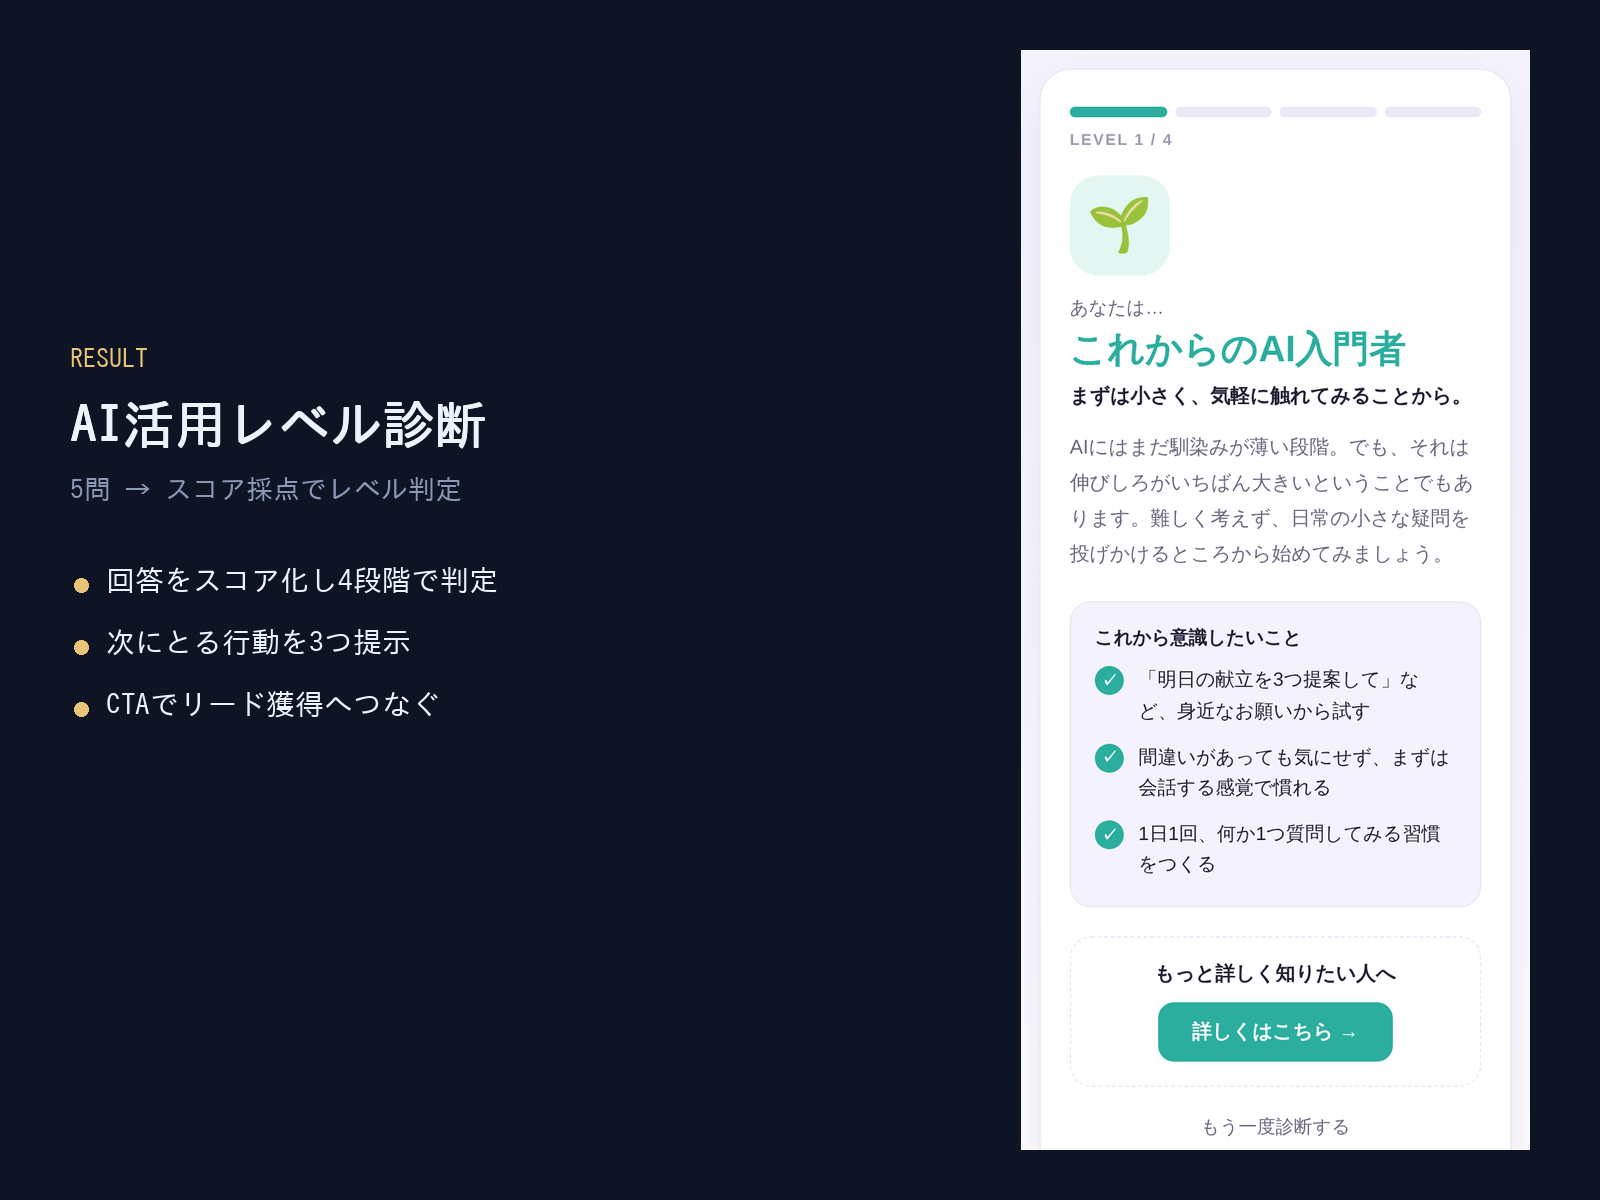
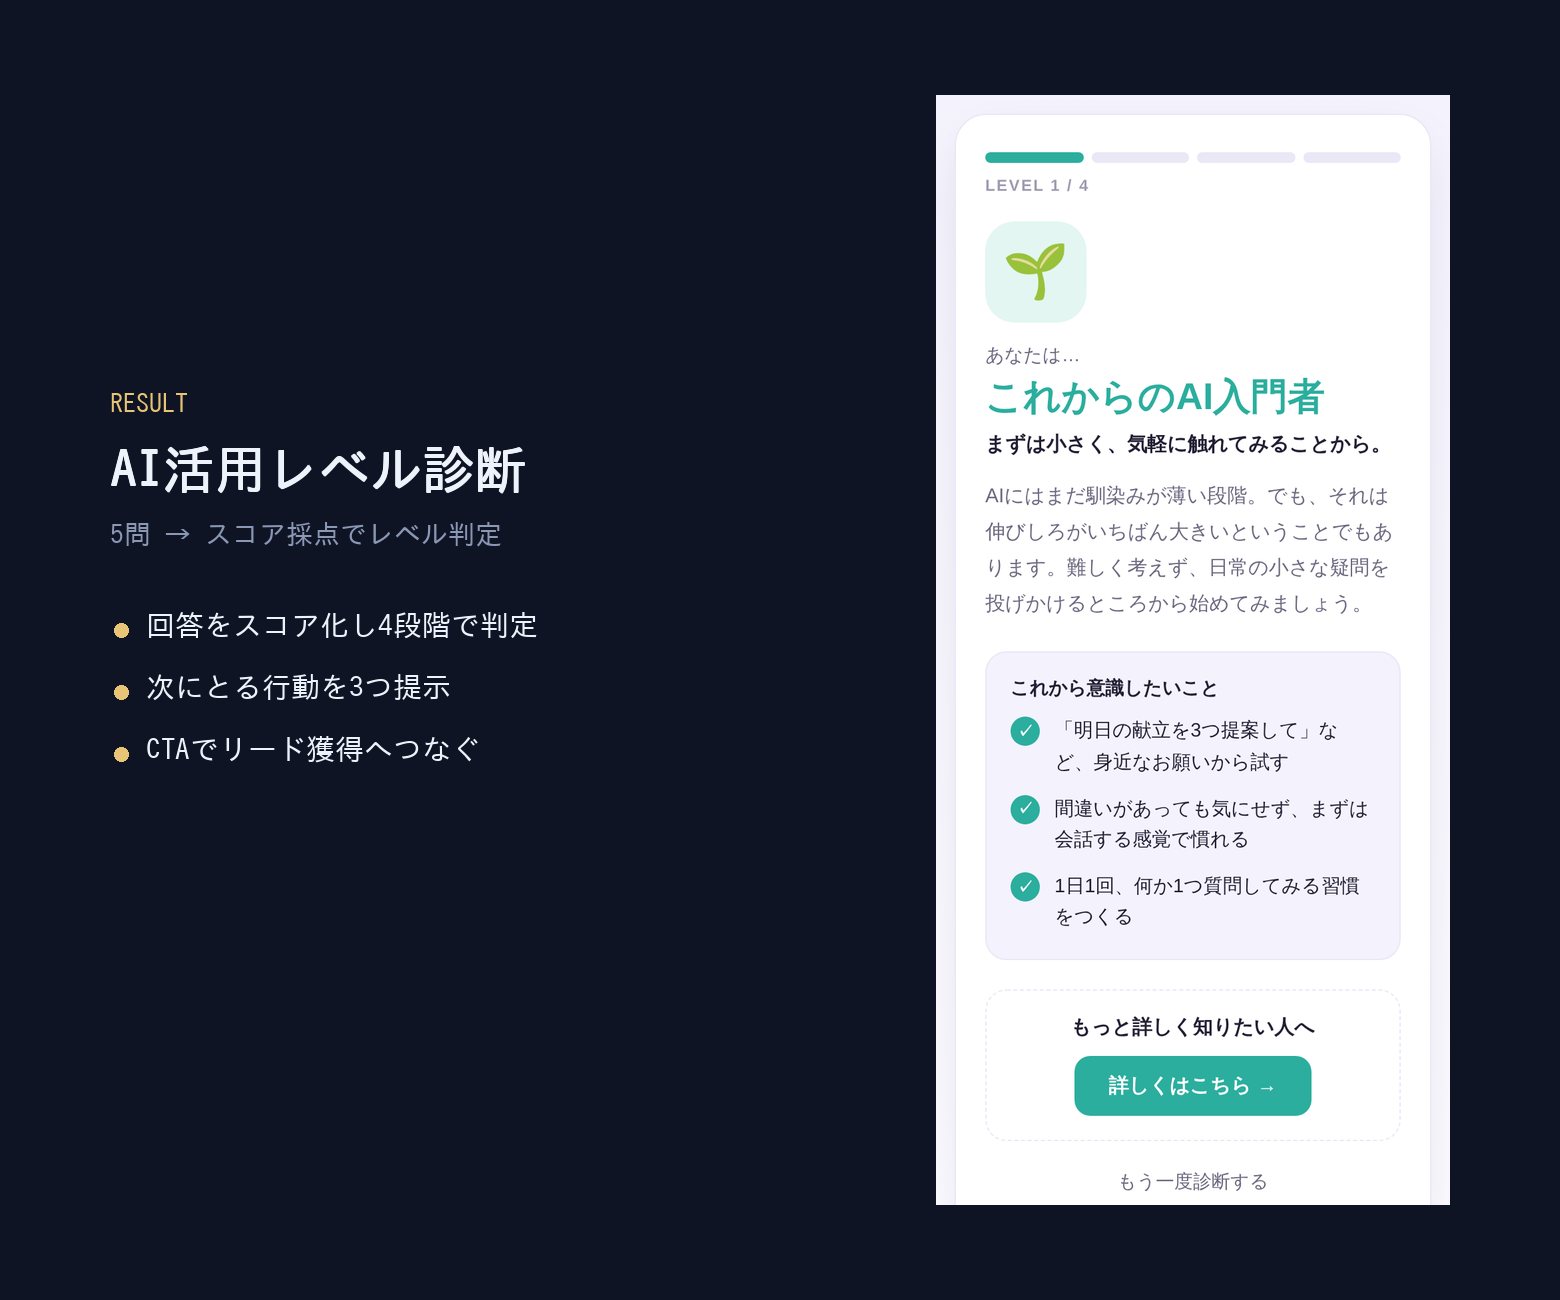
Match Coconala's 1.20:1 image frame, not 4:3
Measuring the upload previews pixel by pixel put the display frame at
roughly 1.20:1, not the 4:3 assumed earlier. A 4:3 image loses about 4.8%
off each side, which ate the first character of every work title and the
right edge of the fourth cut.

- Rebuild both image types at 1.20:1 with 7% side margins, so a small
  error in the measured ratio still costs only background
- Four phone screenshots in a row leave vertical slack in a 1.20:1 frame
  no matter how they are scaled; fill it with a bottom band carrying
  three capability bullets per demo
- Panels now hug their content instead of stretching
- Shrink the result title to fit when it would collide with the
  screenshot (only golf's title is long enough to hit this)

Claude-Session: https://claude.ai/code/session_01F9sMyymGoCyBRjvSWP7idD

diff --git a/_notes/portfolio-tools/compose.py b/_notes/portfolio-tools/compose.py
@@ -23,8 +23,12 @@ DEMOS = [
 STEPS = [("1-start", "① スタート"), ("2-question", "② 設問に答える"),
          ("3-result", "③ 結果が出る"), ("4-share", "④ シェアで拡散")]
 
-CUT_W, GAP, MARGIN = 430, 66, 52
-HEAD_H, LABEL_H = 150, 62
+# ココナラの画像表示枠は約1.20:1。これ以外の比率は中央だけが残り、左右または
+# 上下が切り落とされる。実測では片側4.8%が失われたため、比率を合わせたうえで
+# 余白も7%確保し、多少ずれても文字が欠けないようにしている。
+RATIO = 1.20
+CUT_W, GAP, MARGIN = 405, 60, 150
+HEAD_H, LABEL_H, BAND_H = 178, 66, 150
 
 
 def font(sz):
@@ -68,21 +72,25 @@ RESULT_POINTS = {
 
 def build_result(slug, title, subtitle):
     """結果画面の単体画像。縦長のままだと4:3で上下を切られるため、台紙に載せる。"""
-    W, H = 1600, 1200
+    W, H = 1560, 1300
     shot = trim_tail(Image.open(f"{SHOTS}/{slug}-3-result.png").convert("RGB"))
-    ph = H - 100
+    ph = H - 190
     pw = round(shot.width * ph / shot.height)
     shot = shot.resize((pw, ph), Image.LANCZOS)
 
     canvas = Image.new("RGB", (W, H), BG)
     d = ImageDraw.Draw(canvas)
-    x = W - 70 - pw
+    x = W - 110 - pw
     canvas.paste(shot, (x, (H - ph) // 2))
 
-    # 左側にテキスト
-    tx, ty = 70, 345
+    # 左側にテキスト。作品名が長いとスマホ画像に重なるので幅に収まるまで縮める
+    tx, ty = 110, 390
+    avail = x - tx - 44
+    tf = font(52)
+    while tf.size > 30 and d.textlength(title, font=tf) > avail:
+        tf = font(tf.size - 2)
     d.text((tx, ty), "RESULT", font=font(26), fill=GOLD)
-    bold(d, (tx, ty + 52), title, font(52), INK)
+    bold(d, (tx, ty + 52), title, tf, INK)
     d.text((tx, ty + 130), subtitle, font=font(27), fill=MUT)
     for i, p in enumerate(RESULT_POINTS[slug]):
         y = ty + 220 + i * 62
@@ -102,32 +110,31 @@ def build(slug, title, subtitle, step4):
         h = round(im.height * CUT_W / im.width)
         cuts.append(im.resize((CUT_W, h), Image.LANCZOS))
 
-    body_h = max(c.height for c in cuts) + 40          # パネル内余白
     W = MARGIN * 2 + CUT_W * 4 + GAP * 3
-    H = HEAD_H + LABEL_H + body_h + MARGIN
-    # ココナラのサービス画像は4:3で表示されるため、左右を切られないよう縦に伸ばす
-    H43 = round(W * 3 / 4)
-    if H < H43:
-        body_h += H43 - H
-        H = H43
+    body_h = max(c.height for c in cuts) + 44           # パネルは中身に合わせる
+    H = max(HEAD_H + LABEL_H + body_h + BAND_H + MARGIN, round(W / RATIO))
+    # スマホ画面4枚を横に並べると1.20:1の枠には縦が余る。下端に訴求文の帯を置き、
+    # 残りをヘッダーと帯のあいだで均等に配分してパネル列を収める。
+    band_y = H - MARGIN - BAND_H
+    block_top = HEAD_H + 30 + (band_y - HEAD_H - 30 - LABEL_H - body_h) // 2
 
     canvas = Image.new("RGB", (W, H), BG)
     d = ImageDraw.Draw(canvas)
 
     # ヘッダー
-    bold(d, (MARGIN, 44), title, font(46), INK)
-    d.text((MARGIN, 104), subtitle, font=font(26), fill=MUT)
-    d.text((W - MARGIN, 52), "スマートフォン最適化", font=font(24), fill=GOLD, anchor="ra")
-    d.text((W - MARGIN, 92), "HTML1ファイルで納品", font=font(24), fill=MUT, anchor="ra")
+    bold(d, (MARGIN, 62), title, font(46), INK)
+    d.text((MARGIN, 122), subtitle, font=font(26), fill=MUT)
+    d.text((W - MARGIN, 70), "スマートフォン最適化", font=font(24), fill=GOLD, anchor="ra")
+    d.text((W - MARGIN, 110), "HTML1ファイルで納品", font=font(24), fill=MUT, anchor="ra")
     d.line([(MARGIN, HEAD_H - 12), (W - MARGIN, HEAD_H - 12)], fill=LINE, width=2)
 
     labels = [l for _, l in STEPS[:3]] + [step4]
     for i, (cut, label) in enumerate(zip(cuts, labels)):
         x = MARGIN + i * (CUT_W + GAP)
         # ステップ名
-        d.text((x + CUT_W // 2, HEAD_H + 18), label, font=font(28), fill=GOLD, anchor="ma")
+        d.text((x + CUT_W // 2, block_top + 18), label, font=font(28), fill=GOLD, anchor="ma")
         # パネル
-        top = HEAD_H + LABEL_H
+        top = block_top + LABEL_H
         rounded(d, (x - 10, top, x + CUT_W + 10, top + body_h), 20, PANEL, LINE)
         # 画像は縦中央に配置
         y = top + (body_h - cut.height) // 2
@@ -137,6 +144,15 @@ def build(slug, title, subtitle, step4):
             ax = x + CUT_W + GAP // 2
             ay = top + body_h // 2
             d.polygon([(ax - 13, ay - 19), (ax + 15, ay), (ax - 13, ay + 19)], fill=GOLD)
+
+    # 下部の帯：この作品でできることを3点
+    d.line([(MARGIN, band_y), (W - MARGIN, band_y)], fill=LINE, width=2)
+    col = (W - MARGIN * 2) // 3
+    for i, p in enumerate(RESULT_POINTS[slug]):
+        bx = MARGIN + i * col
+        by = band_y + 58
+        d.ellipse((bx, by + 12, bx + 15, by + 27), fill=GOLD)
+        d.text((bx + 32, by), p, font=font(29), fill=INK)
 
     os.makedirs(OUT, exist_ok=True)
     path = f"{OUT}/{slug}-flow.png"

diff --git a/_notes/coconala-launch-plan.md b/_notes/coconala-launch-plan.md
@@ -284,13 +284,15 @@ GitHub PagesのURLを説明欄に直貼りするのは避けてください。
 
 | ファイル | 用途 | サイズ |
 |---|---|---|
-| `portfolio/<slug>-flow.png` | 4カット合成（ポートフォリオのメイン画像） | 2022×1516 |
-| `portfolio/<slug>-result.png` | 結果画面の単体（2枚目以降に追加） | 1600×1200 |
+| `portfolio/<slug>-flow.png` | 4カット合成（ポートフォリオのメイン画像） | 2100×1750 |
+| `portfolio/<slug>-result.png` | 結果画面の単体（2枚目以降に追加） | 1560×1300 |
 
-**両方とも4:3です。** ココナラのサービス画像・ポートフォリオ画像は4:3で表示され、
-それ以外の比率は中央だけが切り抜かれます。横長（1.65:1）で作ったところ、
-作品名の左端と4カット目の右端が切れました。縦長の結果画面も同様に上下を失うため、
-4:3の台紙に載せて左側に作品名と特徴を配置しています。
+**両方とも1.20:1（6:5）です。** ココナラの画像表示枠をプレビューから実測したところ
+約1.20:1でした。4:3で作ると片側4.8%が切り落とされ、作品名の1文字目と4カット目の
+右端が失われます。比率を合わせたうえで、左右に7%の余白を確保しています。
+
+4カットを横に並べると枠に対して縦が余るため、下端に「この診断でできること」を
+3点入れて埋めています。
 
 slug は `isekai` / `side-biz` / `ai-level` / `shachiku` / `golf` の5種類。
 
